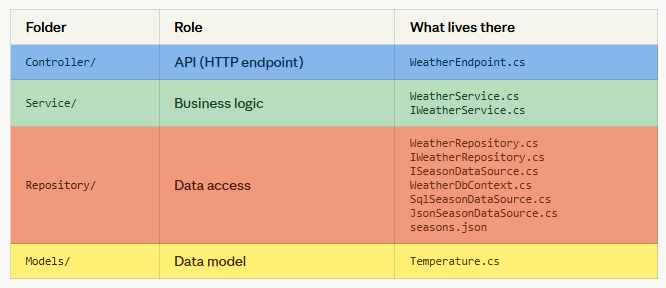
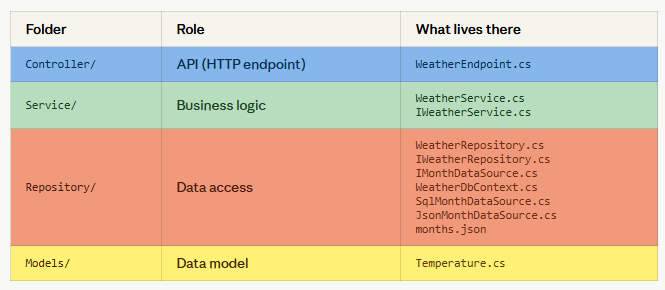
Switch from seasons to months
Replace the four seasonal ranges with twelve per-month ranges so the user can pick any month and see its own temperature,
instead of three months sharing one season's range.

- Rename Temperature.Season -> Temperature.Month (still a name string)
- Rename the data-source port + drivers: ISeasonDataSource -> IMonthDataSource, Sql/JsonSeasonDataSource -> Sql/JsonMonthDataSource (files renamed too)
- IWeatherRepository.GetBySeason -> GetByMonth, returning Temperature? (null for an unknown month, case-insensitive match)
- WeatherService.GetTemperature() -> GetTemperature(string month), returning int?; drop the old GetCurrentSeason date logic
- Endpoint is now GET /api/weather/temperature?month=January, with 400 for a missing month and 404 for an unknown one
- seasons.json -> months.json with 12 rows; same 12 rows seeded in WeatherDbContext; .csproj copy rule updated
- Update README and the structure diagram to match

diff --git a/Repository/WeatherDbContext.cs b/Repository/WeatherDbContext.cs
@@ -5,9 +5,9 @@
 //
 // - DbSet<Temperature> Temperatures  =  the "Temperatures" TABLE.
 // - Each Temperature object           =  one ROW.
-// - The Id / Season / MinTemp / MaxTemp properties = the COLUMNS.
+// - The Id / Month / MinTemp / MaxTemp properties = the COLUMNS.
 //
-// OnModelCreating seeds the four seasons, so the database is never empty on
+// OnModelCreating seeds the twelve months, so the database is never empty on
 // first run. EF Core turns all of this into real SQL for us.
 using Microsoft.EntityFrameworkCore;
 using WeatherAPI.Models;
@@ -16,8 +16,8 @@ namespace WeatherAPI.Repository
 {
 	public class WeatherDbContext : DbContext
 	{
-		// The options (which database, which file) are injected from Program.cs
-		// — the DbContext itself doesn't hardcode where the data lives.
+		// The options (which database, which file) are injected from Program.cs;
+		// the DbContext itself doesn't hardcode where the data lives.
 		public WeatherDbContext(DbContextOptions<WeatherDbContext> options)
 			: base(options)
 		{
@@ -28,13 +28,21 @@ namespace WeatherAPI.Repository
 
 		protected override void OnModelCreating(ModelBuilder modelBuilder)
 		{
-			// Seed data: the same four ranges that used to live in seasons.json,
-			// now rows in the table. HasData needs explicit primary-key values.
+			// Seed data: the same twelve ranges that live in months.json, now rows
+			// in the table. HasData needs explicit primary-key values.
 			modelBuilder.Entity<Temperature>().HasData(
-				new Temperature { Id = 1, Season = "Summer", MinTemp = 17, MaxTemp = 25 },
-				new Temperature { Id = 2, Season = "Autumn", MinTemp = 8,  MaxTemp = 14 },
-				new Temperature { Id = 3, Season = "Spring", MinTemp = 8,  MaxTemp = 15 },
-				new Temperature { Id = 4, Season = "Winter", MinTemp = 2,  MaxTemp = 8  }
+				new Temperature { Id = 1,  Month = "January",   MinTemp = 1,  MaxTemp = 6  },
+				new Temperature { Id = 2,  Month = "February",  MinTemp = 1,  MaxTemp = 7  },
+				new Temperature { Id = 3,  Month = "March",     MinTemp = 3,  MaxTemp = 10 },
+				new Temperature { Id = 4,  Month = "April",     MinTemp = 5,  MaxTemp = 14 },
+				new Temperature { Id = 5,  Month = "May",       MinTemp = 9,  MaxTemp = 18 },
+				new Temperature { Id = 6,  Month = "June",      MinTemp = 12, MaxTemp = 21 },
+				new Temperature { Id = 7,  Month = "July",      MinTemp = 14, MaxTemp = 23 },
+				new Temperature { Id = 8,  Month = "August",    MinTemp = 14, MaxTemp = 23 },
+				new Temperature { Id = 9,  Month = "September", MinTemp = 11, MaxTemp = 19 },
+				new Temperature { Id = 10, Month = "October",   MinTemp = 8,  MaxTemp = 15 },
+				new Temperature { Id = 11, Month = "November",  MinTemp = 4,  MaxTemp = 10 },
+				new Temperature { Id = 12, Month = "December",  MinTemp = 2,  MaxTemp = 7  }
 			);
 		}
 	}

diff --git a/Service/WeatherService.cs b/Service/WeatherService.cs
@@ -1,8 +1,8 @@
 // ============================================================================
 // SERVICE - business logic
 // ============================================================================
-// WeatherService does the work: find the current season, get its range, and
-// pick a random value inside it. It implements IWeatherService and uses
+// WeatherService does the work: look up the chosen month's range and pick a
+// random value inside it. It implements IWeatherService and uses
 // IWeatherRepository to get data.
 //
 // Pure logic - no ASP.NET, no database. The repository arrives via the
@@ -25,24 +25,15 @@ namespace WeatherAPI.Service
 			_random = new Random();
 		}
 
-		public int GetTemperature()
+		// Returns a random temperature in the chosen month's range, or null if
+		// the month is unknown.
+		public int? GetTemperature(string month)
 		{
-			string season = GetCurrentSeason();
-			// Ask the contract for the range; we don't know or care that the
-			// data is currently hardcoded behind WeatherRepository.
-			Temperature temp = _repository.GetBySeason(season);
+			Temperature? row = _repository.GetByMonth(month);
+			if (row is null)
+				return null;
 			// Max + 1 because Random.Next's upper bound is EXCLUSIVE.
-			return _random.Next(temp.MinTemp, temp.MaxTemp + 1);
-		}
-
-		// Business rule: map the current calendar month to a season.
-		private string GetCurrentSeason()
-		{
-			int month = DateTime.Now.Month;
-			if (month >= 6 && month <= 8) return "Summer";
-			if (month >= 9 && month <= 11) return "Autumn";
-			if (month >= 3 && month <= 5) return "Spring";
-			return "Winter";
+			return _random.Next(row.MinTemp, row.MaxTemp + 1);
 		}
 	}
 }

diff --git a/Repository/WeatherRepository.cs b/Repository/WeatherRepository.cs
@@ -4,8 +4,8 @@
 // WeatherRepository implements IWeatherRepository. Its job is to fetch the data
 // the service asks for and shape it into a Temperature.
 //
-// It doesn't touch storage directly: it goes through the ISeasonDataSource
-// contract, whose driver (SqlSeasonDataSource for SQLite, JsonSeasonDataSource
+// It doesn't touch storage directly: it goes through the IMonthDataSource
+// contract, whose driver (SqlMonthDataSource for SQLite, JsonMonthDataSource
 // for the JSON file) is chosen in Program.cs. Swapping drivers is one line
 // there, and this class never changes because it only ever sees the interface.
 using WeatherAPI.Models;
@@ -14,22 +14,23 @@ namespace WeatherAPI.Repository
 {
 	public class WeatherRepository : IWeatherRepository
 	{
-		// WeatherRepository depends on the ISeasonDataSource interface;
-		// the concrete driver (JsonSeasonDataSource / SqlSeasonDataSource) is injected via the constructor, wired up in Program.cs
-		private readonly ISeasonDataSource _dataSource;
+		// WeatherRepository depends on the IMonthDataSource interface; the
+		// concrete driver (JsonMonthDataSource / SqlMonthDataSource) is injected
+		// via the constructor, wired up in Program.cs.
+		private readonly IMonthDataSource _dataSource;
 
-		public WeatherRepository(ISeasonDataSource dataSource)
+		public WeatherRepository(IMonthDataSource dataSource)
 		{
 			_dataSource = dataSource;
 		}
 
-		public Temperature GetBySeason(string season)
+		public Temperature? GetByMonth(string month)
 		{
-			// Load the rows from storage, then ADAPT: pick the row for the
-			// requested season, falling back to Winter (the old default).
+			// Load the rows from storage, then pick the row for the requested
+			// month (case-insensitive). Returns null if the month is unknown.
 			IReadOnlyList<Temperature> all = _dataSource.GetAll();
-			return all.FirstOrDefault(t => t.Season == season)
-			       ?? all.First(t => t.Season == "Winter");
+			return all.FirstOrDefault(t =>
+				string.Equals(t.Month, month, StringComparison.OrdinalIgnoreCase));
 		}
 	}
 }

diff --git a/Controller/WeatherEndpoint.cs b/Controller/WeatherEndpoint.cs
@@ -5,8 +5,8 @@
 // Its only job is translation; it holds no business logic. It calls the service
 // through the IWeatherService interface, never the concrete class.
 //
-// Endpoint:  GET /api/weather/temperature
-//   -> { "temperature": 22 }
+// Endpoint:  GET /api/weather/temperature?month=January
+//   -> { "temperature": 4 }
 using Microsoft.AspNetCore.Mvc;
 using WeatherAPI.Service;
 
@@ -25,12 +25,17 @@ namespace WeatherAPI.Controller
 			_service = service;
 		}
 
-		// Handles: GET /api/weather/temperature
+		// Handles: GET /api/weather/temperature?month=January
 		[HttpGet("temperature")]
-		public IActionResult GetTemperature()
+		public IActionResult GetTemperature([FromQuery] string month)
 		{
-			int temperature = _service.GetTemperature();
-			// Wrap the bare int so the JSON comes out as { "temperature": 22 }.
+			if (string.IsNullOrWhiteSpace(month))
+				return BadRequest(new { error = "Provide a month, e.g. ?month=January" });
+
+			int? temperature = _service.GetTemperature(month);
+			if (temperature is null)
+				return NotFound(new { error = $"Unknown month '{month}'." });
+
 			return Ok(new { temperature });
 		}
 	}

diff --git a/Models/Temperature.cs b/Models/Temperature.cs
@@ -6,15 +6,15 @@
 // allowed to depend on it.
 //
 // It maps directly to a database table with four columns:
-// Id, Season, MinTemp, MaxTemp.
+// Id, Month, MinTemp, MaxTemp.
 namespace WeatherAPI.Models
 {
 	public class Temperature
 	{
 		public int Id { get; set; }
-		// 'required' forces every Temperature to be given a Season when created,
+		// 'required' forces every Temperature to be given a Month when created,
 		// which satisfies the non-nullable string and removes the warning.
-		public required string Season { get; set; }
+		public required string Month { get; set; }
 		public int MinTemp { get; set; }
 		public int MaxTemp { get; set; }
 	}

diff --git a/Program.cs b/Program.cs
@@ -36,11 +36,11 @@ builder.Services.AddDbContext<WeatherDbContext>(options =>
     options.UseSqlite("Data Source=weather.db"));
 
 // --- THE ONE-LINE DRIVER SWAP ---
-// WeatherRepository depends only on the ISeasonDataSource interface. We choose
+// WeatherRepository depends only on the IMonthDataSource interface. We choose
 // which driver fills it here. Comment one line, uncomment the other - nothing
 // else in the app changes.
-// builder.Services.AddScoped<ISeasonDataSource, JsonSeasonDataSource>();  // file
-builder.Services.AddScoped<ISeasonDataSource, SqlSeasonDataSource>();        // SQLite
+// builder.Services.AddScoped<IMonthDataSource, JsonMonthDataSource>();  // file
+builder.Services.AddScoped<IMonthDataSource, SqlMonthDataSource>();        // SQLite
 builder.Services.AddScoped<IWeatherRepository, WeatherRepository>();
 builder.Services.AddScoped<IWeatherService, WeatherService>();
 

diff --git a/Service/IWeatherService.cs b/Service/IWeatherService.cs
@@ -2,12 +2,12 @@
 // SERVICE - contract
 // ============================================================================
 // IWeatherService is the contract the controller calls. WeatherEndpoint depends
-// on this interface and calls GetTemperature(); it never touches the concrete
-// WeatherService.
+// on this interface and calls GetTemperature(month); it never touches the
+// concrete WeatherService.
 namespace WeatherAPI.Service
 {
 	public interface IWeatherService
 	{
-		int GetTemperature();
+		int? GetTemperature(string month);
 	}
 }

diff --git a/Repository/IWeatherRepository.cs b/Repository/IWeatherRepository.cs
@@ -10,6 +10,6 @@ namespace WeatherAPI.Repository
 {
 	public interface IWeatherRepository
 	{
-		Temperature GetBySeason(string season);
+		Temperature? GetByMonth(string month);
 	}
 }

diff --git a/README.md b/README.md
@@ -1,11 +1,11 @@
 # WeatherAPI
 
 A small ASP.NET Core Web API built to learn **Clean Architecture**. It returns a
-random temperature for the current season, and can read its data from either a
-JSON file or a SQLite database - swappable with one line.
+random temperature for a chosen month, and can read its data from either a JSON
+file or a SQLite database - swappable with one line.
 
 ```
-GET /api/weather/temperature  ->  { "temperature": 21 }
+GET /api/weather/temperature?month=January  ->  { "temperature": 4 }
 ```
 
 ## Project structure
@@ -16,63 +16,62 @@ Controller → Service → Repository (Models is the shared data type):
 ![WeatherAPI project structure - Controller/ (API, HTTP endpoint):
 WeatherEndpoint.cs; Service/ (business logic): WeatherService.cs,
 IWeatherService.cs; Repository/ (data access): WeatherRepository.cs,
-IWeatherRepository.cs, ISeasonDataSource.cs, WeatherDbContext.cs,
-SqlSeasonDataSource.cs, JsonSeasonDataSource.cs, seasons.json; Models/
+IWeatherRepository.cs, IMonthDataSource.cs, WeatherDbContext.cs,
+SqlMonthDataSource.cs, JsonMonthDataSource.cs, months.json; Models/
 (data model): Temperature.cs](docs/clean_architecture.png)
 
 ## How a request flows
 
 **Stage 1 - startup (the choice):**
-`Program.cs` registers one driver for `ISeasonDataSource` (currently
-`SqlSeasonDataSource` = SQLite). The choice is locked in once, before any
+`Program.cs` registers one driver for `IMonthDataSource` (currently
+`SqlMonthDataSource` = SQLite). The choice is locked in once, before any
 request arrives.
 
-**Stage 2 - the request (`GET /api/weather/temperature`):**
+**Stage 2 - the request (`GET /api/weather/temperature?month=July`):**
 
-1. Browser sends `GET /api/weather/temperature`.
+1. Browser sends `GET /api/weather/temperature?month=July`.
 2. Kestrel receives it; routing matches `WeatherEndpoint`.
-3. DI builds the chain; for `ISeasonDataSource` it builds the chosen driver
-   (`SqlSeasonDataSource` + `WeatherDbContext`).
-4. Controller calls `_service.GetTemperature()`.
-5. `WeatherService` works out the season (June → Summer).
-6. It calls `_repository.GetBySeason("Summer")`.
-7. `WeatherRepository` calls `_dataSource.GetAll()` (the chosen driver).
-8. `SqlSeasonDataSource` → EF Core → `SELECT * FROM Temperatures` →
+3. DI builds the chain; for `IMonthDataSource` it builds the chosen driver
+   (`SqlMonthDataSource` + `WeatherDbContext`).
+4. Controller validates the month and calls `_service.GetTemperature("July")`.
+5. `WeatherService` calls `_repository.GetByMonth("July")`.
+6. `WeatherRepository` calls `_dataSource.GetAll()` (the chosen driver).
+7. `SqlMonthDataSource` → EF Core → `SELECT * FROM Temperatures` →
    `weather.db` → `Temperature` rows.
-9. `WeatherRepository` picks the Summer row (17-25); `WeatherService` rolls a
+8. `WeatherRepository` picks the July row (14-23); `WeatherService` rolls a
    random value inside it and returns the `int`.
-10. Controller wraps it as `{ "temperature": N }`; Kestrel sends the JSON back.
+9. Controller wraps it as `{ "temperature": N }`; Kestrel sends the JSON back.
 
 Quick view of the call chain:
 
 ```
 Browser → Kestrel → WeatherEndpoint → WeatherService →
-WeatherRepository → SqlSeasonDataSource → weather.db
+WeatherRepository → SqlMonthDataSource → weather.db
 ```
 
 ```
-Kestrel             = web server
-WeatherEndpoint     = controller
-WeatherService      = service (business logic)
-WeatherRepository   = repository (data access)
-SqlSeasonDataSource = chosen driver
-weather.db          = database
+Kestrel            = web server
+WeatherEndpoint    = controller
+WeatherService     = service (business logic)
+WeatherRepository  = repository (data access)
+SqlMonthDataSource = chosen driver
+weather.db         = database
 ```
 
 ## Swapping storage (JSON ↔ SQLite)
 
-Both drivers sit behind the same `ISeasonDataSource` port. Pick one in
+Both drivers sit behind the same `IMonthDataSource` interface. Pick one in
 `Program.cs` - comment one line, uncomment the other:
 
 ```csharp
-// builder.Services.AddScoped<ISeasonDataSource, JsonSeasonDataSource>();  // file
-builder.Services.AddScoped<ISeasonDataSource, SqlSeasonDataSource>();      // SQLite (default)
+// builder.Services.AddScoped<IMonthDataSource, JsonMonthDataSource>();  // file
+builder.Services.AddScoped<IMonthDataSource, SqlMonthDataSource>();      // SQLite (default)
 ```
 
 Nothing else in the app changes - the controller, service, and repository
-never know which storage is behind the port.
+never know which storage is behind the interface.
 
-- **JSON driver** reads `Repository/seasons.json`.
+- **JSON driver** reads `Repository/months.json`.
 - **SQLite driver** uses EF Core; the database file `weather.db` is created and
   seeded automatically on startup by `EnsureCreated()`.
 
@@ -85,7 +84,7 @@ dotnet run
 Then open:
 
 - `http://localhost:5151/swagger` - interactive test page
-- `http://localhost:5151/api/weather/temperature` - the raw JSON
+- `http://localhost:5151/api/weather/temperature?month=July` - the raw JSON
 
 Press `Ctrl+C` to stop.
 